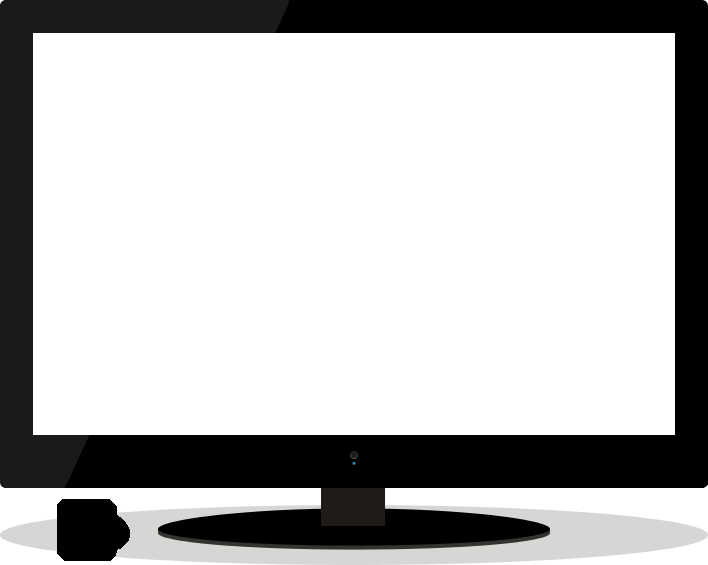
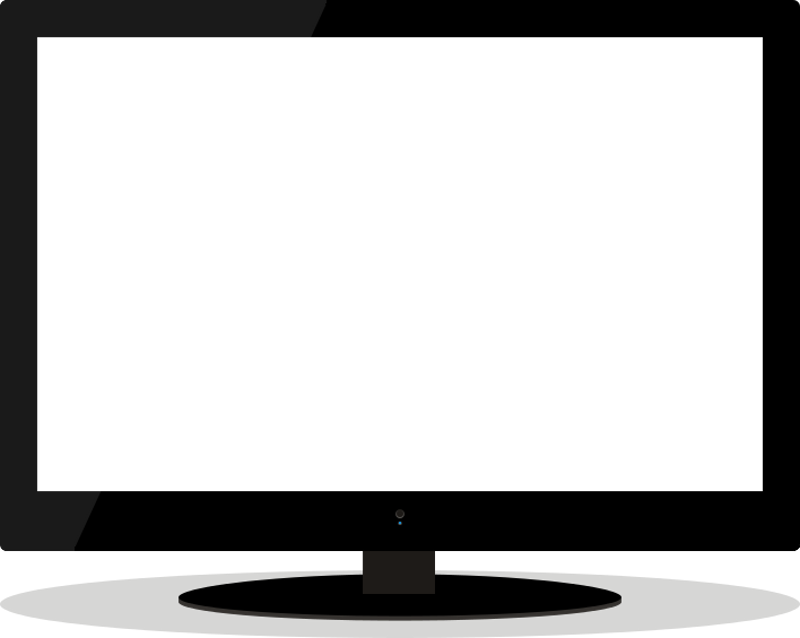
Fixed tv-image. Enabled y-animation of islands.

diff --git a/QtDemo/qml/QtDemo/Slide.qml b/QtDemo/qml/QtDemo/Slide.qml
@@ -8,7 +8,7 @@ Item {
     rotation: deltaRot
 
     property bool rotAnimationEnabled: false
-    property bool yAnimationEnabled: false
+    property bool yAnimationEnabled: true
     property int uid: 0
     property string url: ""
     property int device: 0
